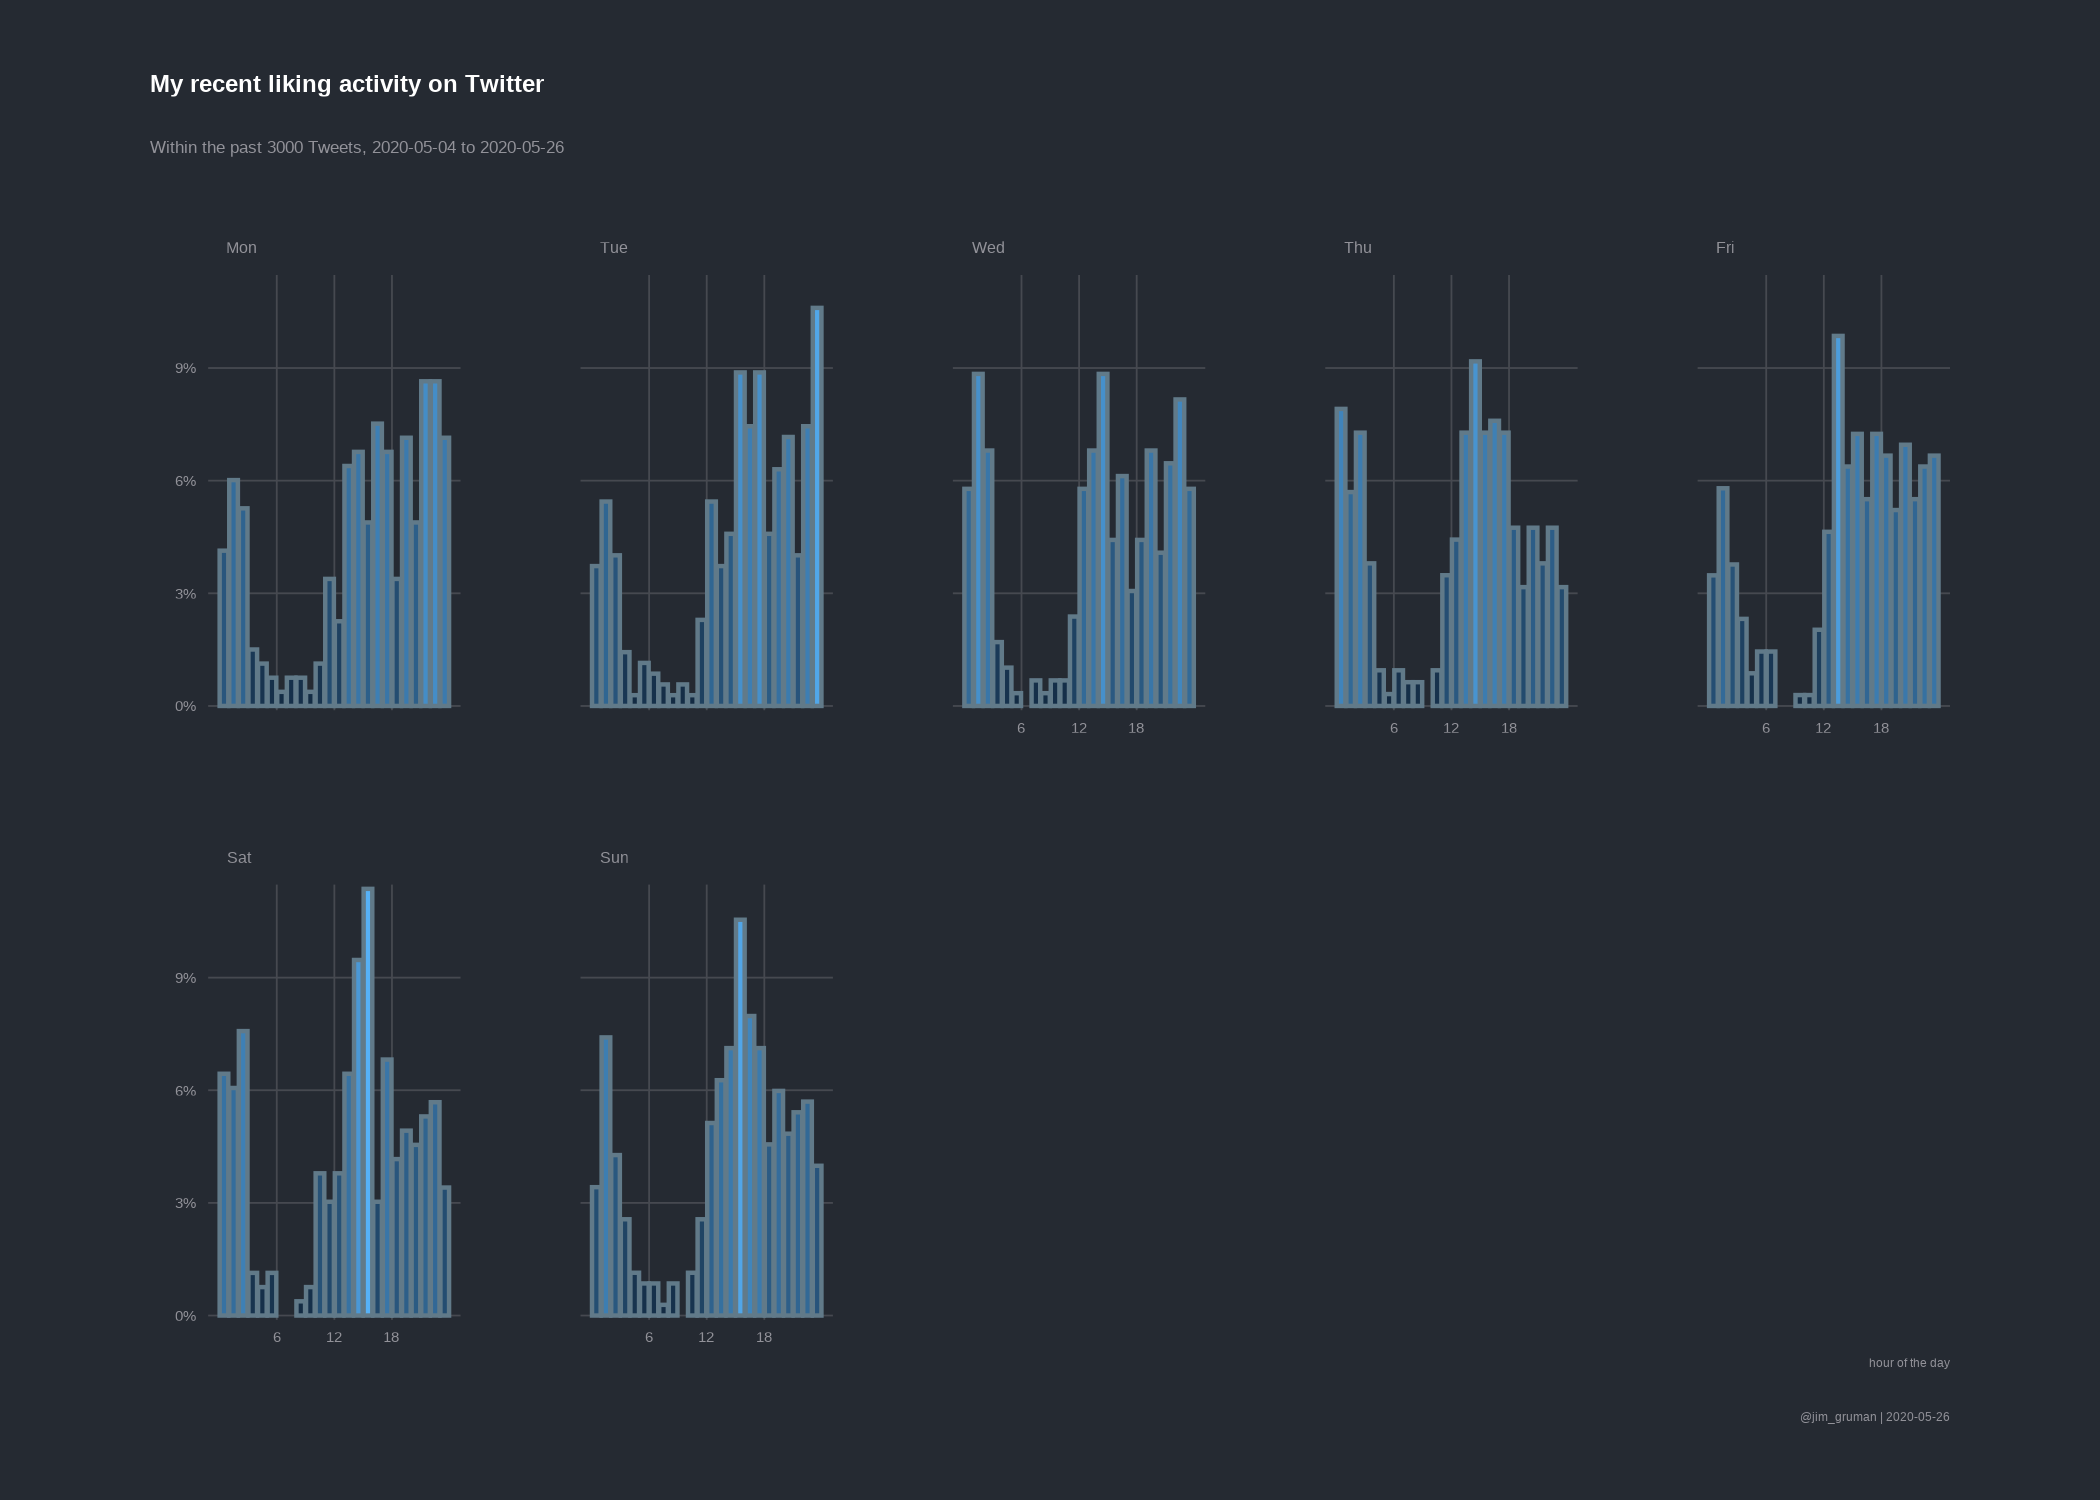
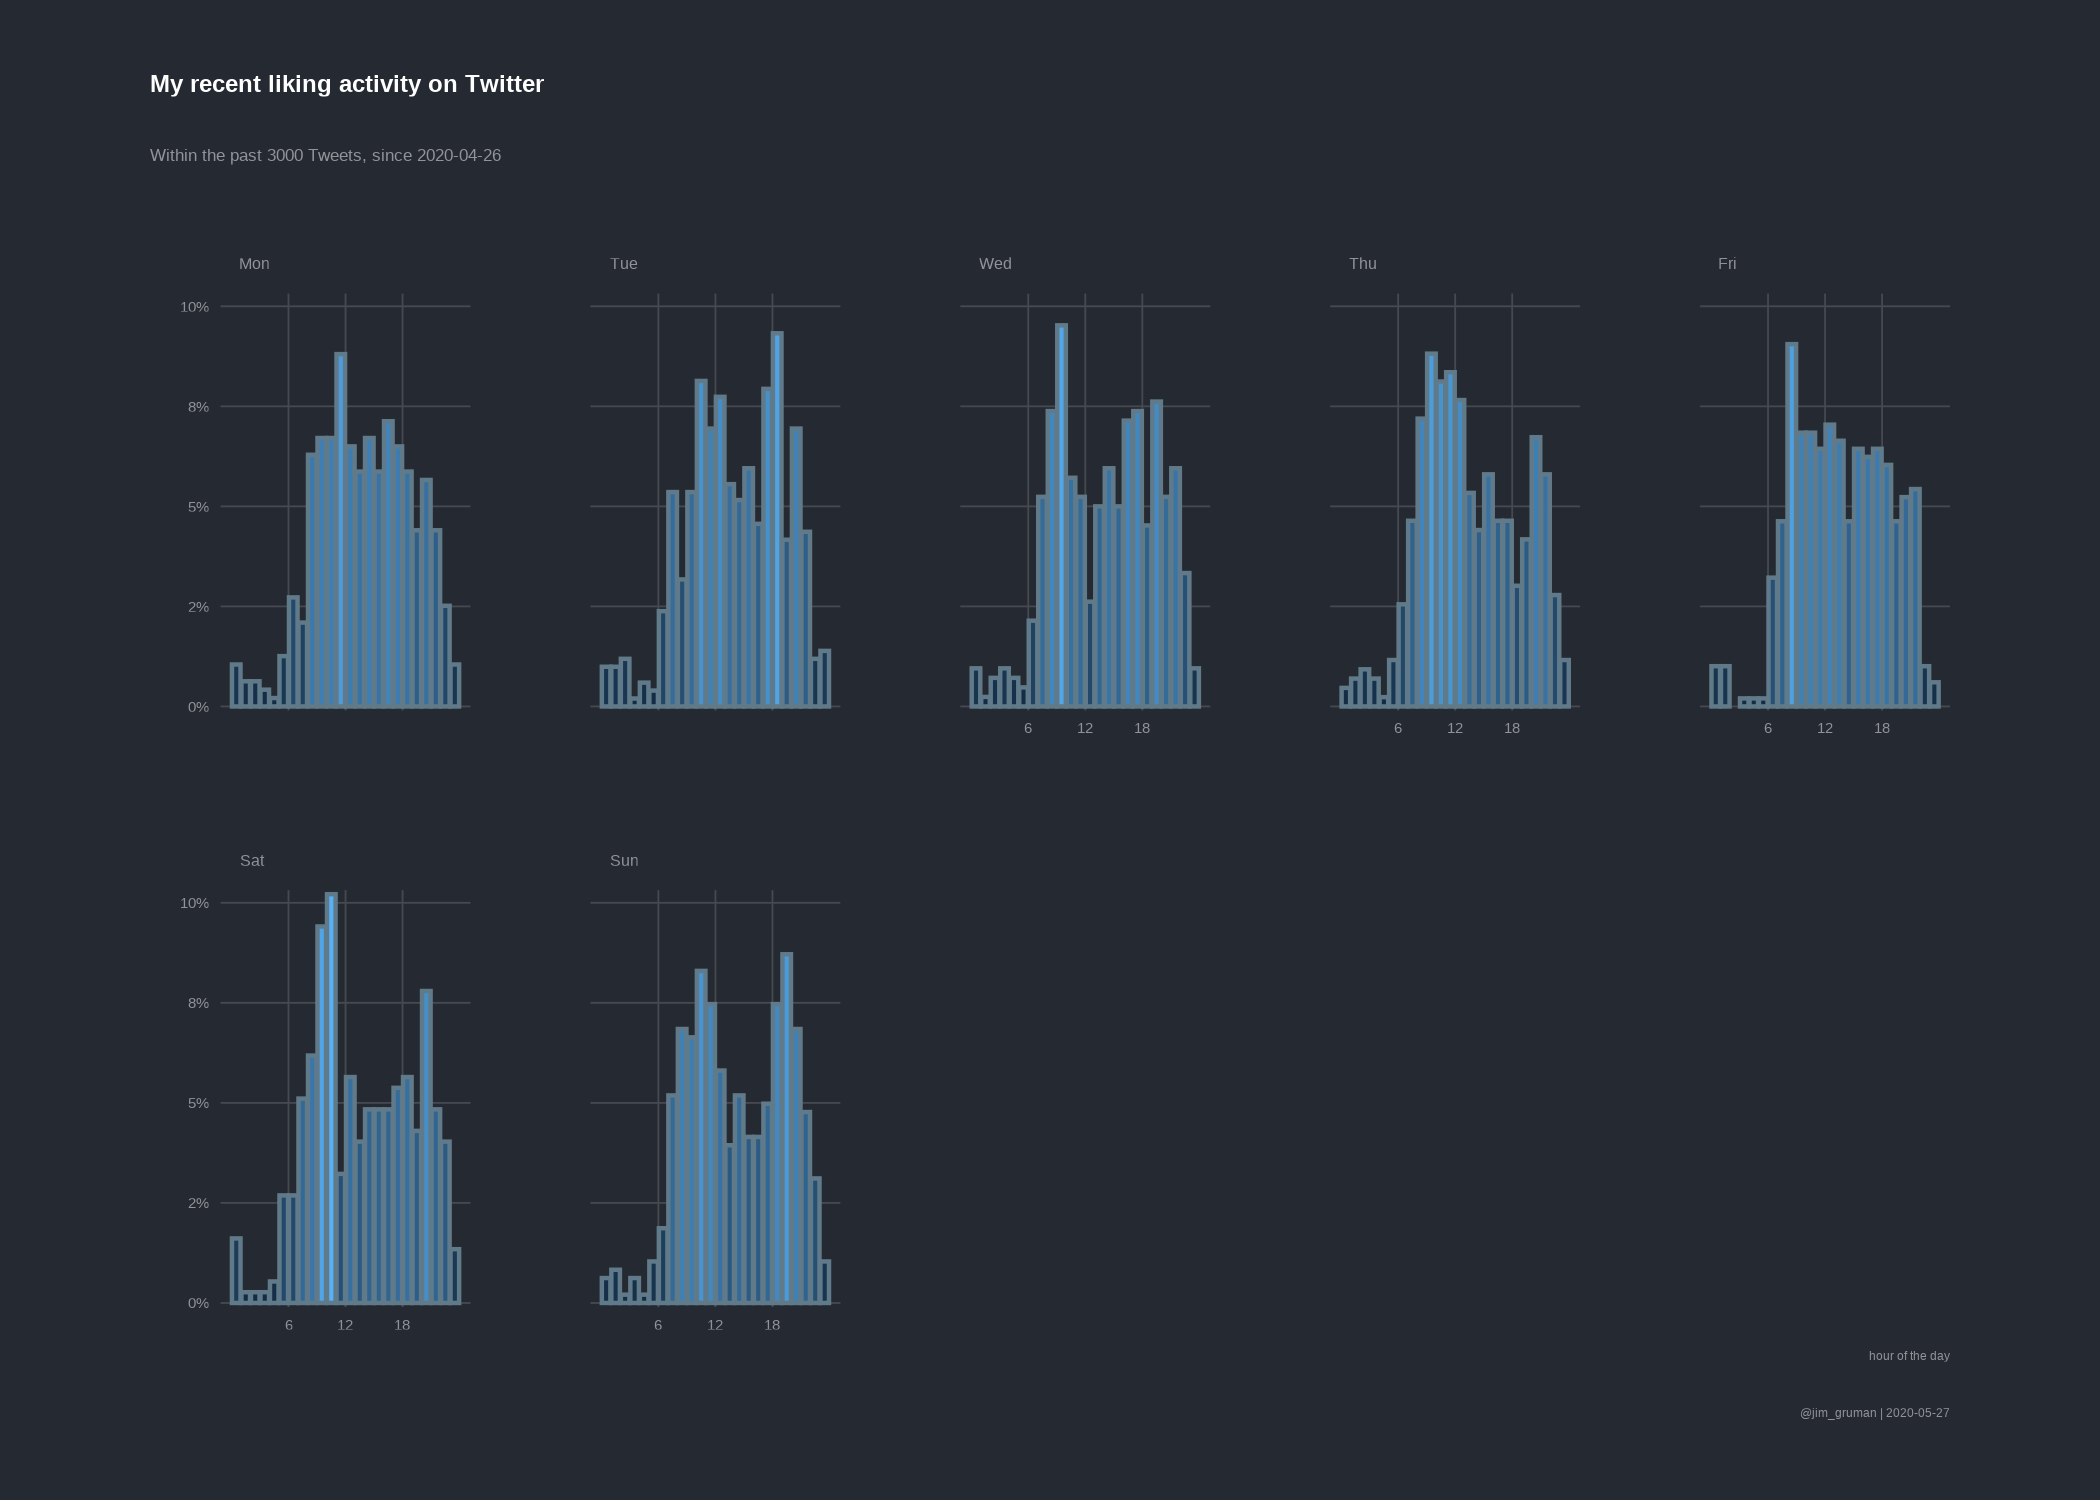
rtweet for Chicago tz

diff --git a/content/post/rtweet-on-windows/index.html b/content/post/rtweet-on-windows/index.html
@@ -1,7 +1,7 @@
 ---
 title: "rtweet"
 author: "Jim Gruman"
-date: "2020-05-26"
+date: "2020-05-27"
 diagram: true
 output: 
  blogdown::html_page:
@@ -19,7 +19,7 @@ draft: false
 
 
 <p>I was inspired by David Robinson’s Tidy Tuesday screencast to work with <code>rtweet</code> on some familiar Twitter handles and ended up discovering a bug and a workaround for windows users.</p>
-<p>{<code>rtweet</code>} is an amazing way of having a little productive procrastination while demostrating R skills</p>
+<p><code>rtweet</code> is an amazing way of having a little productive procrastination while honing R skills</p>
 {{% youtube "KE9ItC3doEU" %}}
 <p>As with any other project, loading the appropriate libraries.</p>
 <pre class="r"><code>library(tidyverse)   # tidy data manipulation, including dplyr and ggplot
@@ -52,16 +52,12 @@ token</code></pre>
 <hr />
 <p>Let’s have a look at the accounts that I favorite (or <strong>like</strong>) the most:</p>
 <pre class="r"><code># there is a rate limit at Twitter at approximately 18000 each 15 minutes
-df_likes &lt;- rtweet::get_favorites(&quot;jim_gruman&quot;, n = 3000)
-
-users_favorite&lt;-df_likes %&gt;% 
+df_likes &lt;- rtweet::get_favorites(&quot;jim_gruman&quot;, n = 3000)</code></pre>
+<pre class="r"><code>users_favorite&lt;-df_likes %&gt;% 
     group_by(screen_name, user_id) %&gt;%
     summarise(
         quant_fav= n()
     )
-
-start &lt;- as.Date(min(df_likes$created_at), tz = &quot;America/Chicago&quot;)
-end &lt;- as.Date(max(df_likes$created_at), tz = &quot;America/Chicago&quot;)
 
 users_favorite %&gt;%
     ungroup() %&gt;%
@@ -73,36 +69,35 @@ users_favorite %&gt;%
           text = element_text(hrbrthemes::font_rc, size = 16))+
     labs(
         title = &quot;Top 15 Twitter accounts I like the most often&quot;,
-        subtitle = paste0(&quot;Within the past 3000 Tweets, &quot;,start, &quot; to &quot;,end),
+        subtitle = paste0(&quot;Within the past 3000 Tweets, since &quot;,min(as_date(df_likes$created_at,  tz =&quot;America/Chicago&quot;))),
         y = &quot;@ user names&quot;,
         x= &quot;# of tweets liked&quot;,
         caption = paste0(&quot;@jim_gruman | &quot;, Sys.Date())
     )</code></pre>
-<p><img src="/post/rtweet-on-windows/index_files/figure-html/unnamed-chunk-7-1.png" width="672" style="display: block; margin: auto;" /></p>
-<pre class="r"><code>ggsave(&quot;my-twitter-likes-users.png&quot;, width = 7, height = 5, type = &quot;cairo&quot;)</code></pre>
+<p><img src="/post/rtweet-on-windows/index_files/figure-html/unnamed-chunk-8-1.png" width="672" style="display: block; margin: auto;" /></p>
 <p>And let’s break down my activity by week day</p>
-<pre class="r"><code>df_likes %&gt;% 
+<pre class="r"><code>tw_activity&lt;- df_likes %&gt;% 
     transmute(
-        created_at,
-        hour = created_at %&gt;% hour(),
-        year = created_at %&gt;% year(), 
-        month = created_at %&gt;% month(label = T), 
-        weekday = created_at %&gt;% wday(label = T, abbr = T, week_start = 1)
+              tw_hour = hour(as_datetime(created_at, tz =&quot;America/Chicago&quot;)),
+              tw_day = as_date(created_at, tz =&quot;America/Chicago&quot;),
+              tw_weekday = wday(tw_day,label = T, abbr = T, week_start = 1)
     ) %&gt;%
-    group_by(weekday, hour) %&gt;%
+    group_by(tw_weekday, tw_hour) %&gt;%
     summarise(
         quant_fav= n()
     ) %&gt;% 
     ungroup() %&gt;% 
-    group_by(weekday) %&gt;% 
+    group_by(tw_weekday) %&gt;% 
     mutate(prop = quant_fav / sum(quant_fav)) %&gt;% 
-    ungroup() %&gt;%
-    ggplot(aes(x = hour, y = prop, fill = prop)) + 
+    ungroup()
+  
+tw_activity %&gt;%
+    ggplot(aes(x = tw_hour, y = prop, fill = prop)) + 
     geom_col(position = position_nudge(x = .5),
              show.legend = FALSE) +
     scale_x_continuous(breaks = c(6, 12, 18))+
     hrbrthemes::scale_y_percent()+
-    facet_wrap(~weekday, ncol = 5)+
+    facet_wrap(~tw_weekday, ncol = 5)+
     theme(text = element_text(hrbrthemes::font_rc, size = 16),
     panel.grid.minor = element_blank(),
     plot.title.position = &quot;plot&quot;,
@@ -110,13 +105,36 @@ users_favorite %&gt;%
       )+
     labs(
         title = &quot;My recent liking activity on Twitter&quot;,
-        subtitle = paste0(&quot;Within the past 3000 Tweets, &quot;,start, &quot; to &quot;,end),
+        subtitle = paste0(&quot;Within the past 3000 Tweets, since &quot;,min(as.Date(df_likes$created_at, tz = &quot;America/Chicago&quot;))),
         x = &quot;hour of the day&quot;,
         y = &quot;&quot;,
         caption = paste0(&quot;@jim_gruman | &quot;, Sys.Date())
     )</code></pre>
-<p><img src="/post/rtweet-on-windows/index_files/figure-html/unnamed-chunk-8-1.png" width="672" style="display: block; margin: auto;" /></p>
-<pre class="r"><code>ggsave(&quot;my-twitter-likes-by-hour-weekday.png&quot;, width = 7, height = 5, type = &quot;cairo&quot;)</code></pre>
+<p><img src="/post/rtweet-on-windows/index_files/figure-html/unnamed-chunk-9-1.png" width="672" style="display: block; margin: auto;" /></p>
+<p>Some may prefer the <code>ggridges</code> version of the same data visualization</p>
+<pre class="r"><code>library(ggridges)
+
+tw_activity %&gt;%
+  mutate(tw_weekday = fct_rev(tw_weekday))%&gt;%
+ggplot(aes(x = tw_hour, , y = tw_weekday, height = prop, fill = stat(x)))+
+ggridges::geom_ridgeline_gradient(scale = 10, show.legend = FALSE)+
+  scale_fill_gradient2(low = &quot;blue&quot;,
+                        mid = &quot;grey50&quot;,
+                        high = &quot;blue&quot;,
+                        midpoint = 12L)+
+    theme(text = element_text(hrbrthemes::font_rc, size = 16),
+    panel.grid.minor = element_blank(),
+    plot.title.position = &quot;plot&quot;,
+    plot.margin = margin(0.25,0.5,0.25,0.5,&quot;in&quot;)
+      )+
+    labs(
+        title = &quot;My recent liking activity on Twitter&quot;,
+        subtitle = paste0(&quot;Within the past 3000 Tweets, since &quot;,min(as.Date(df_likes$created_at, tz = &quot;America/Chicago&quot;))),
+        x = &quot;hour of the day&quot;,
+        y = &quot;Proportion of Tweet Likes&quot;,
+        caption = paste0(&quot;@jim_gruman | &quot;, Sys.Date())
+    )</code></pre>
+<p><img src="/post/rtweet-on-windows/index_files/figure-html/unnamed-chunk-10-1.png" width="672" style="display: block; margin: auto;" /></p>
 <hr />
 <div id="did-you-find-this-page-helpful-consider-sharing-it" class="section level3">
 <h3>Did you find this page helpful? Consider sharing it 🙌</h3>
